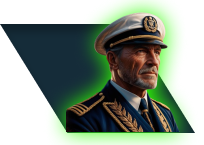
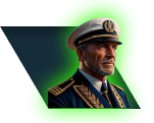
change the finish frame

diff --git a/modules/run_game/start_game.py b/modules/run_game/start_game.py
@@ -111,24 +111,26 @@ def apply_fade_effect(screen, fade_speed=3, max_fade_alpha=76):
 
 #buttons
 #кнопка кторая перекидывает на фрейм по созданию игры(запуска сервера)
-create_game_frame = Button(x= 113, y = 653,image_path= "button_create.png" , image_hover_path= "create_button_hover.png" , width= 346 , height= 80 , action= button_action)
+create_game_frame = Button(x= 113, y = 653,image_path= "button_create.png" , image_hover_path= "create_button_hover.png" , width= 346 , height = 80 , action = button_action)
 #кнопка кторая перекидывает на фрейм по присоеденению к игре(серверу)
-join_game_frame = Button(x= 832 , y = 653,image_path= "join_button.png" , image_hover_path= "join_button_hover.png" , width= 346 , height= 80 , action= button_action)
+join_game_frame = Button(x= 832 , y = 653,image_path= "join_button.png" , image_hover_path= "join_button_hover.png" , width= 346 , height = 80 , action = button_action)
 #кнопка которая возвращает назад к главному окну
-back_to_menu = Button(x= 33 , y = 41 ,image_path= "back_button.png" , image_hover_path= "back_button_hover.png" , width= 158 , height= 41 , action= button_action)
+back_to_menu = Button(x= 33 , y = 41 ,image_path= "back_button.png" , image_hover_path= "back_button_hover.png" , width= 158 , height = 41 , action = button_action)
 #кнопка которая запускает сервер(игру)
-start_game_button = Button(x= 352 , y = 642,image_path= "create_game_button.png" , image_hover_path= "create_game_button_hover.png" , width= 575 , height= 80 , action= start_server)
+start_game_button = Button(x= 352 , y = 642,image_path= "create_game_button.png" , image_hover_path= "create_game_button_hover.png" , width = 575 , height = 80 , action= start_server)
 #кнопка которая подключается к игре
-join_game_button = Button(x= 352 , y = 642,image_path= "join_to_game.png" , image_hover_path= "joint_to_game_hover.png" , width= 575 , height= 80 , action= connect_to_server)
+join_game_button = Button(x= 352 , y = 642,image_path= "join_to_game.png" , image_hover_path= "joint_to_game_hover.png" , width= 575 , height = 80 , action = connect_to_server)
 #кнопка коли розставив кораблі та підлючаєшься до бою
-ready_for_battle = Button(x= 798 , y = 626,image_path= "start_battle.png" , image_hover_path= "start_battle_hover.png" , width= 408 , height= 61 , action= connect_to_fight)
+ready_for_battle = Button(x= 798 , y = 626,image_path= "start_battle.png" , image_hover_path= "start_battle_hover.png" , width= 408 , height = 61 , action = connect_to_fight)
 #кнопка яка будеть розставляти кораблі у ранломному положені
-random_place_ships = Button(x= 205 , y = 709,image_path= "random_place.png" , image_hover_path= "random_place_hover.png" , width= 318 , height= 48 , action= random_places_ships)
+random_place_ships = Button(x= 205 , y = 709,image_path= "random_place.png" , image_hover_path= "random_place_hover.png" , width= 318 , height = 48 , action = random_places_ships)
 # кнопка для добавления звука
-button_upp = Button(x=53 ,y=44 , image_path="button_music_upp.png", image_hover_path="button_volue_up_hover.png", width= 74, height= 71, action= music_up)
-button_lower = Button(x=53,y=136, image_path="button_music_lower.png", image_hover_path="button_music_lower_hover.png", width= 74, height= 71, action= music_lower)
+button_upp = Button(x=53 ,y=44 , image_path="button_music_upp.png", image_hover_path="button_volue_up_hover.png", width = 74, height = 71, action = music_up)
+button_lower = Button(x=53,y=136, image_path="button_music_lower.png", image_hover_path="button_music_lower_hover.png", width = 74, height= 71, action = music_lower)
 #кнопка возвращения на сервер
-back_to_server = Button(x= 39 , y = 56 ,image_path= "back_button.png" , image_hover_path= "back_button_hover.png" , width= 158 , height= 41 , action= button_action)
+back_to_server = Button(x= 39 , y = 56 ,image_path= "back_button.png" , image_hover_path= "back_button_hover.png" , width = 158 , height = 41 , action= button_action)
+# Restart game
+restart_game = Button(x = 437, y = 713,image_path= "restart_game.png" , image_hover_path= "restart_game_hover.png" , width = 408, height = 61 , action= test)
 
 
 #images decoration
@@ -145,14 +147,18 @@ fight_bg = DrawImage(width = 1280,height = 832 , x_cor = 0 , y_cor = 0 , folder_
 frame_nick_player = DrawImage(width = 362 ,height = 69 , x_cor = 222 , y_cor = 116 , folder_name= "backgrounds" , image_name= "frame_nick.png")
 second_frame_nick_player = DrawImage(width = 362 ,height = 69 , x_cor = 699 , y_cor = 116 , folder_name= "backgrounds" , image_name= "frame_nick.png")
 # Зображення аватрів гравців
-player_face = DrawImage(width = 195 , height = 122  ,x_cor = 1065 , y_cor = 64 , folder_name = "decorations" , image_name = "active_player.png")
-enemy_face = DrawImage(width = 195 , height = 122  ,x_cor = 20 , y_cor = 64 , folder_name = "decorations" , image_name = "not_active_enemy.png")
+player_face = DrawImage(width = 154 , height = 123 ,x_cor = 1104 , y_cor = 79 , folder_name = "decorations" , image_name = "active_player.png")
+enemy_face = DrawImage(width = 154 , height = 123  ,x_cor = 20 , y_cor = 79 , folder_name = "decorations" , image_name = "not_active_enemy.png")
 # Зображення яке показує скуільки залишилось часу
 clock_image = DrawImage(width = 206 , height = 57 , x_cor = 544 , y_cor = 20 , folder_name = "animation_clock" , image_name = "0.png")
 # Зображення для фрейми де показують виграв чи програв користувач
-win_background = DrawImage(width = 431 , height = 255 , x_cor = 822 , y_cor = 392 , folder_name = "backgrounds" , image_name = "victory_bg.png")
-defeat_background = DrawImage(width = 431 , height = 255 , x_cor = 37 , y_cor = 392 , folder_name = "backgrounds" , image_name = "defeat_bg.png")
+win_background = DrawImage(width = 315 , height = 199 , x_cor = 97 , y_cor = 416 , folder_name = "backgrounds" , image_name = "result_game_bg.png")
+defeat_background = DrawImage(width = 315 , height = 199 , x_cor = 860 , y_cor = 416 , folder_name = "backgrounds" , image_name = "result_game_bg.png")
 end_game_image  = DrawImage(width = 606 , height = 131 , x_cor = 337 , y_cor = 80 , folder_name = "decorations" , image_name = "end_game.png")
+# картинка для того что бы под текстом кто выиграл проиграл была тень
+shadow_text = DrawImage(width = 816 , height = 150 , x_cor = 233 , y_cor = 255 , folder_name = "decorations" , image_name = "shadow_text.png")
+new_year_cap = DrawImage(width = 133 , height = 133 , x_cor = 331 , y_cor = 75 , folder_name = "decorations" , image_name = "new_year_cap.png")
+
 
 #backgrounds
 main_bg = DrawImage(width = 1280,height = 832 , x_cor = 0 , y_cor = 0 ,folder_name= "backgrounds" , image_name= "main_background.png")
@@ -169,7 +175,7 @@ can_attack = DrawImage(width = 191 , height = 53 , x_cor = 820 , y_cor = 118 , f
 # Фон який вказує що користувач зараз не може ходити
 can_not_attack = DrawImage(width = 191 , height = 53 , x_cor = 311 , y_cor = 118 , folder_name = "backgrounds" , image_name = "not_active.png")
 # Finish background
-finish_bg = DrawImage(width = 1280 , height = 832 , x_cor = 0 , y_cor = 0 , folder_name = "backgrounds" , image_name = "end_background.png")
+finish_bg = DrawImage(width = 1280 , height = 832 , x_cor = 0 , y_cor = 0 , folder_name = "backgrounds" , image_name = "win_game_bg.png")
 
 #створюємо функцію, яка викликається при запуску гри для користувача який запускає сервер
 def main_window():
@@ -619,19 +625,41 @@ def fight_window():
 
         pygame.display.flip()
 
+
 # спсиок для того чтобы для игрока добавлились/отнимались очки только один раз
 check_points = [0]
-
 def finish_window():
     pygame.display.set_caption("Finish Window")
     run_game = True
-
+    check_points[0] = 0
     while run_game:
         check_points[0] += 1
         module_screen_server.FPS.tick(60)
-        finish_bg.draw_image(screen = main_screen)
+        if list_player_role[0] == "player_client":
+            if list_check_win[0] == "win_client":
+                finish_bg.image_name = "win_game_bg.png"
+                finish_bg.load_image()
+                finish_bg.draw_image(screen = main_screen)
+            else:
+                finish_bg.image_name = "lose_game_bg.png"
+                finish_bg.load_image()
+                finish_bg.draw_image(screen = main_screen)
+
+        elif list_player_role[0] == "server_player":
+            if list_check_win[0] == "win_server":
+                finish_bg.image_name = "win_game_bg.png"
+                finish_bg.load_image()
+                finish_bg.draw_image(screen = main_screen)
+            else:
+                finish_bg.image_name = "lose_game_bg.png"
+                finish_bg.load_image()
+                finish_bg.draw_image(screen = main_screen)
 
         end_game_image.draw_image(screen = main_screen)
+
+        new_year_cap.draw_image(screen = main_screen)
+
+        shadow_text.draw_image(screen = main_screen)
 
         win_background.draw_image(screen = main_screen)
         defeat_background.draw_image(screen = main_screen)
@@ -644,25 +672,25 @@ def finish_window():
 
                 player_nick.text = dict_save_information["player_nick"]
                 player_nick.size = 52
-                player_nick.x_cor = 990
-                player_nick.y_cor = 470
+                player_nick.x_cor = 970
+                player_nick.y_cor = 450
                 player_nick.draw_font()
-                player_points.text = str(dict_save_information["player_points"] + 100) 
+                player_points.text = str(dict_save_information["player_points"] + 100)
                 player_points.size = 52
-                player_points.x_cor = 1020
+                player_points.x_cor = 980
                 player_points.y_cor = 531
                 player_points.draw_font()
                 enemy_nick.text = dict_save_information["enemy_nick"]
                 enemy_nick.size = 52
-                enemy_nick.x_cor = 180
-                enemy_nick.y_cor = 470
+                enemy_nick.x_cor = 200
+                enemy_nick.y_cor = 450
                 enemy_nick.draw_font()
                 if dict_save_information["enemy_points"] == 0:
                     enemy_points.text = str(dict_save_information["enemy_points"])
                 else:
                     enemy_points.text = str(dict_save_information["enemy_points"] - 50)
                 enemy_points.size = 52
-                enemy_points.x_cor = 220
+                enemy_points.x_cor = 240
                 enemy_points.y_cor = 531
                 enemy_points.draw_font()
 
@@ -672,13 +700,13 @@ def finish_window():
                     write_json(filename = "data_base.json" , object_dict = list_users)
 
             else:
-                win_lose_text.text = dict_save_information["enemy_nick"] + " won"
+                win_lose_text.text = dict_save_information["player_nick"] + " Lost"
                 win_lose_text.draw_font()
 
                 player_nick.text = dict_save_information["player_nick"]
                 player_nick.size = 52
-                player_nick.x_cor = 180
-                player_nick.y_cor = 470
+                player_nick.x_cor = 200
+                player_nick.y_cor = 450
                 player_nick.draw_font()
                 if dict_save_information["player_points"] == 0:
                     player_points.text = str(dict_save_information["player_points"])
@@ -691,13 +719,13 @@ def finish_window():
 
                 enemy_nick.text = dict_save_information["enemy_nick"]
                 enemy_nick.size = 52
-                enemy_nick.x_cor = 990
-                enemy_nick.y_cor = 470
+                enemy_nick.x_cor = 970
+                enemy_nick.y_cor = 450
                 enemy_nick.draw_font()
 
                 enemy_points.text = str(dict_save_information["enemy_points"] + 100)
                 enemy_points.size = 52
-                enemy_points.x_cor = 1020
+                enemy_points.x_cor = 980
                 enemy_points.y_cor = 531
                 enemy_points.draw_font()
 
@@ -719,25 +747,25 @@ def finish_window():
 
                 player_nick.text = dict_save_information["player_nick"]
                 player_nick.size = 52
-                player_nick.x_cor = 990
-                player_nick.y_cor = 470
+                player_nick.x_cor = 970
+                player_nick.y_cor = 450
                 player_nick.draw_font()
                 player_points.text = str(dict_save_information["player_points"] + 100)
                 player_points.size = 52
-                player_points.x_cor = 1020
+                player_points.x_cor = 980
                 player_points.y_cor = 531
                 player_points.draw_font()
                 enemy_nick.text = dict_save_information["enemy_nick"]
                 enemy_nick.size = 52
-                enemy_nick.x_cor = 180
-                enemy_nick.y_cor = 470
+                enemy_nick.x_cor = 200
+                enemy_nick.y_cor = 450
                 enemy_nick.draw_font()
                 if dict_save_information["enemy_points"] == 0:
                     enemy_points.text = str(dict_save_information["enemy_points"])
                 else:
                     enemy_points.text = str(dict_save_information["enemy_points"] - 50)
                 enemy_points.size = 52
-                enemy_points.x_cor = 220
+                enemy_points.x_cor = 240
                 enemy_points.y_cor = 531
                 enemy_points.draw_font()
 
@@ -746,13 +774,13 @@ def finish_window():
                     list_users[nickname]["points"] += 100
                     write_json(filename = "data_base.json" , object_dict = list_users)
             else:
-                win_lose_text.text = dict_save_information["enemy_nick"] + " won"
+                win_lose_text.text = dict_save_information["player_nick"] + " Lost"
                 win_lose_text.draw_font()
 
                 player_nick.text = dict_save_information["player_nick"]
                 player_nick.size = 52
-                player_nick.x_cor = 180
-                player_nick.y_cor = 470
+                player_nick.x_cor = 200
+                player_nick.y_cor = 450
                 player_nick.draw_font()
                 if dict_save_information["player_points"] == 0:
                     player_points.text = str(dict_save_information["player_points"])
@@ -765,13 +793,13 @@ def finish_window():
 
                 enemy_nick.text = dict_save_information["enemy_nick"]
                 enemy_nick.size = 52
-                enemy_nick.x_cor = 990
-                enemy_nick.y_cor = 470
+                enemy_nick.x_cor = 970
+                enemy_nick.y_cor = 450
                 enemy_nick.draw_font()
 
                 enemy_points.text = str(dict_save_information["enemy_points"] + 100)
                 enemy_points.size = 52
-                enemy_points.x_cor = 1020
+                enemy_points.x_cor = 980
                 enemy_points.y_cor = 531
                 enemy_points.draw_font()
 
@@ -784,6 +812,8 @@ def finish_window():
                     if data_points > 0:
                         list_users[nickname]["points"] -= 50
                         write_json(filename = "data_base.json" , object_dict = list_users)
+
+        restart_game.draw(surface = main_screen)
 
         for event in pygame.event.get():
             if event.type == pygame.QUIT:
